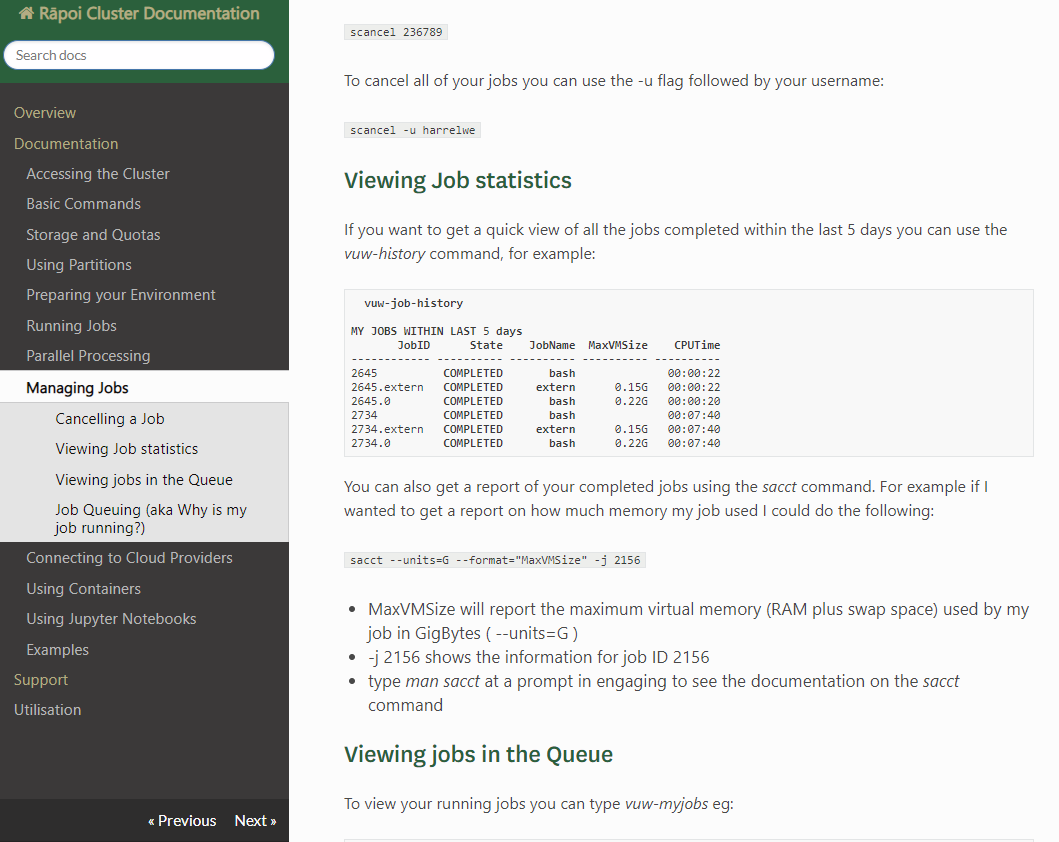
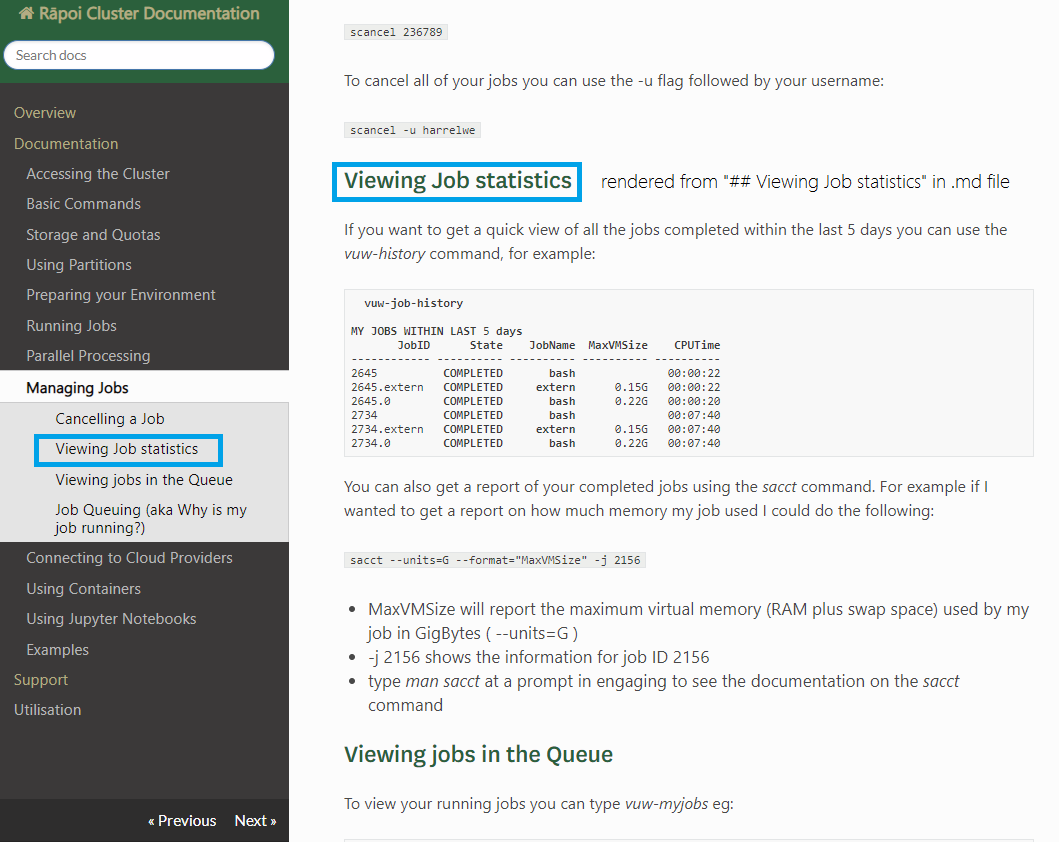
updated readme and screenshot img

diff --git a/README.md b/README.md
@@ -1,4 +1,4 @@
-# raapoi-docs
+# Rāpoi-docs
 Documentation for the Rāpoi cluster.
 
 Built using the <a href="http://127.0.0.1:8000">sphinx</a>-based <a href="https://docs.readthedocs.io/en/stable/intro/getting-started-with-sphinx.html">Read the Docs theme</a> and deployed via <a href="https://www.mkdocs.org/">Mkdocs</a>. ```mkdocs.yml``` configures basic site structure, menu structure and Table of Contents depth, and can also customise other variables. ```Extra.css``` defines non-standard styling. 
@@ -6,7 +6,7 @@ Built using the <a href="http://127.0.0.1:8000">sphinx</a>-based <a href="https:
 Currently, heading levels 1 and 2 (# and ##) creating clickable menu items in the side nav bar:
 ![Menu levels example](docs/img/Menu_structure.png)
 
-##Workflow for updating docs (locally via CLI):
+## Workflow for updating docs (locally via CLI):
 
 1. Make sure you're on the ```master``` branch on raapoi-docs repository.
 
@@ -27,10 +27,10 @@ INFO    -  Building documentation...
 INFO    -  Cleaning site directory
 [I 190619 12:41:14 server:298] Serving on http://127.0.0.1:8000
 ```
-viewable at <a href="http://127.0.0.1:8000">```http://127.0.0.1:8000```</a>
+The local site is now viewable at <a href="http://127.0.0.1:8000">```http://127.0.0.1:8000```</a>. This supports real time previes, so any local changes made and saved will update the server automatically.
 
 1. When ready to publish, use:
-```mkdocs gh-deploy``` (optional ```--clean``` can be appended to deploy clean version)
+```mkdocs gh-deploy``` (optional ```--clean``` can be appended to deploy a clean version)
 
 This pushes changes should return something like: 
 ```
@@ -41,7 +41,7 @@ INFO    -  Building documentation to directory: H:\GIT_HUB\raapoi-docs\site
 INFO    -  Copying 'H:\GIT_HUB\raapoi-docs\site' to 'gh-pages' branch and pushing to GitHub.
 INFO    -  Your documentation should shortly be available at: https://vuw-research-computing.github.io/raapoi-docs/
 ```
-That's it. If editing multiple files, make local changes on all the required files first then these steps only need be worked through once.
+That's it. If editing multiple files, make local changes on all the required files first, then these steps only need be worked through once.
 
-Note, the repo publishes docs from the ```gh-pages``` branch. If using ```mkdocs gh-deploy``` refrain from editing in that branch, use the above workflow (editing instead.
+Note, the repo publishes docs from the ```gh-pages``` branch, but if using ```mkdocs gh-deploy``` refrain from editing in that branch, use the above workflow (i.e. editing ```master``` instead).
 
